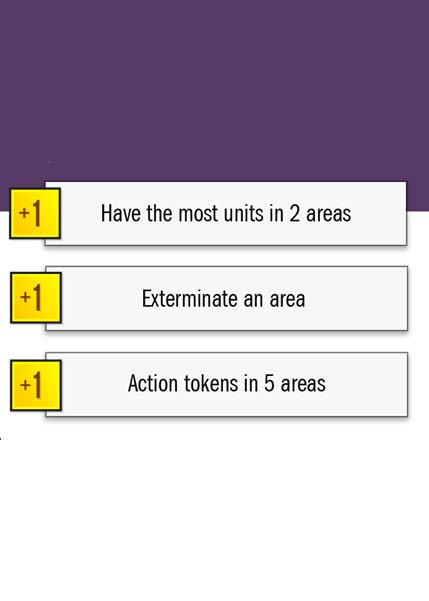
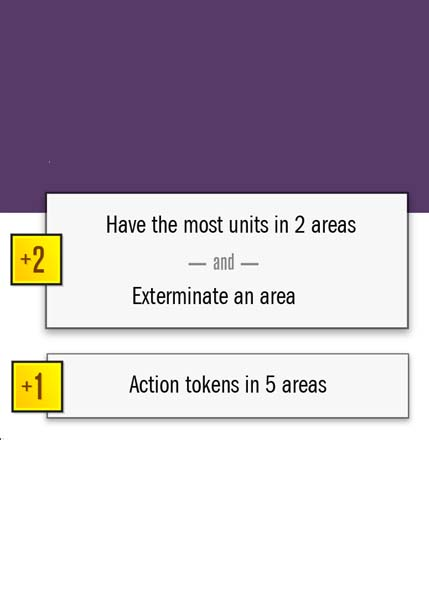
Tweak bikers plans

Changed region(s): [[0.0, 0.2995, 1.0, 0.7188], [0.303, 0.4792, 0.7273, 0.5092]]

diff --git a/server/classes/factions/plans/bikersPlans.js b/server/classes/factions/plans/bikersPlans.js
@@ -76,13 +76,13 @@ let obj = [
             },
             {
                 requirements : [
-                    { test : 'killUnits', args : [4] },
+                    { test : 'unitInEnemy', args : ['mole', 1] },
                 ],
                 value : 1
             },
             {
                 requirements : [
-                    { test : 'unitInEnemy', args : ['mole', 1] },
+                    { test : 'killUnits', args : [4] },
                 ],
                 value : 1
             },
@@ -128,14 +128,9 @@ let obj = [
             {
                 requirements : [
                     { test : 'areasMostUnits', args : [2] },
-                ],
-                value : 1
-            },
-            {
-                requirements : [
                     { test : 'exterminateAreas', args : [1] },
                 ],
-                value : 1
+                value : 2
             },
             {
                 requirements : [
@@ -152,19 +147,14 @@ let obj = [
         objectives : [
             {
                 requirements : [
-                    { test : 'unitInEnemy', args : ['mole', 1] },
-                ],
-                value : 1
-            },
-            {
-                requirements : [
                     { test : 'areasMostUnits', args : [2] },
+                    { test : 'skilledAtTarget', args : [2] },
                 ],
                 value : 1
             },
             {
                 requirements : [
-                    { test : 'skilledAtTarget', args : [2] },
+                    { test : 'unitInEnemy', args : ['mole', 1] },
                 ],
                 value : 1
             },
